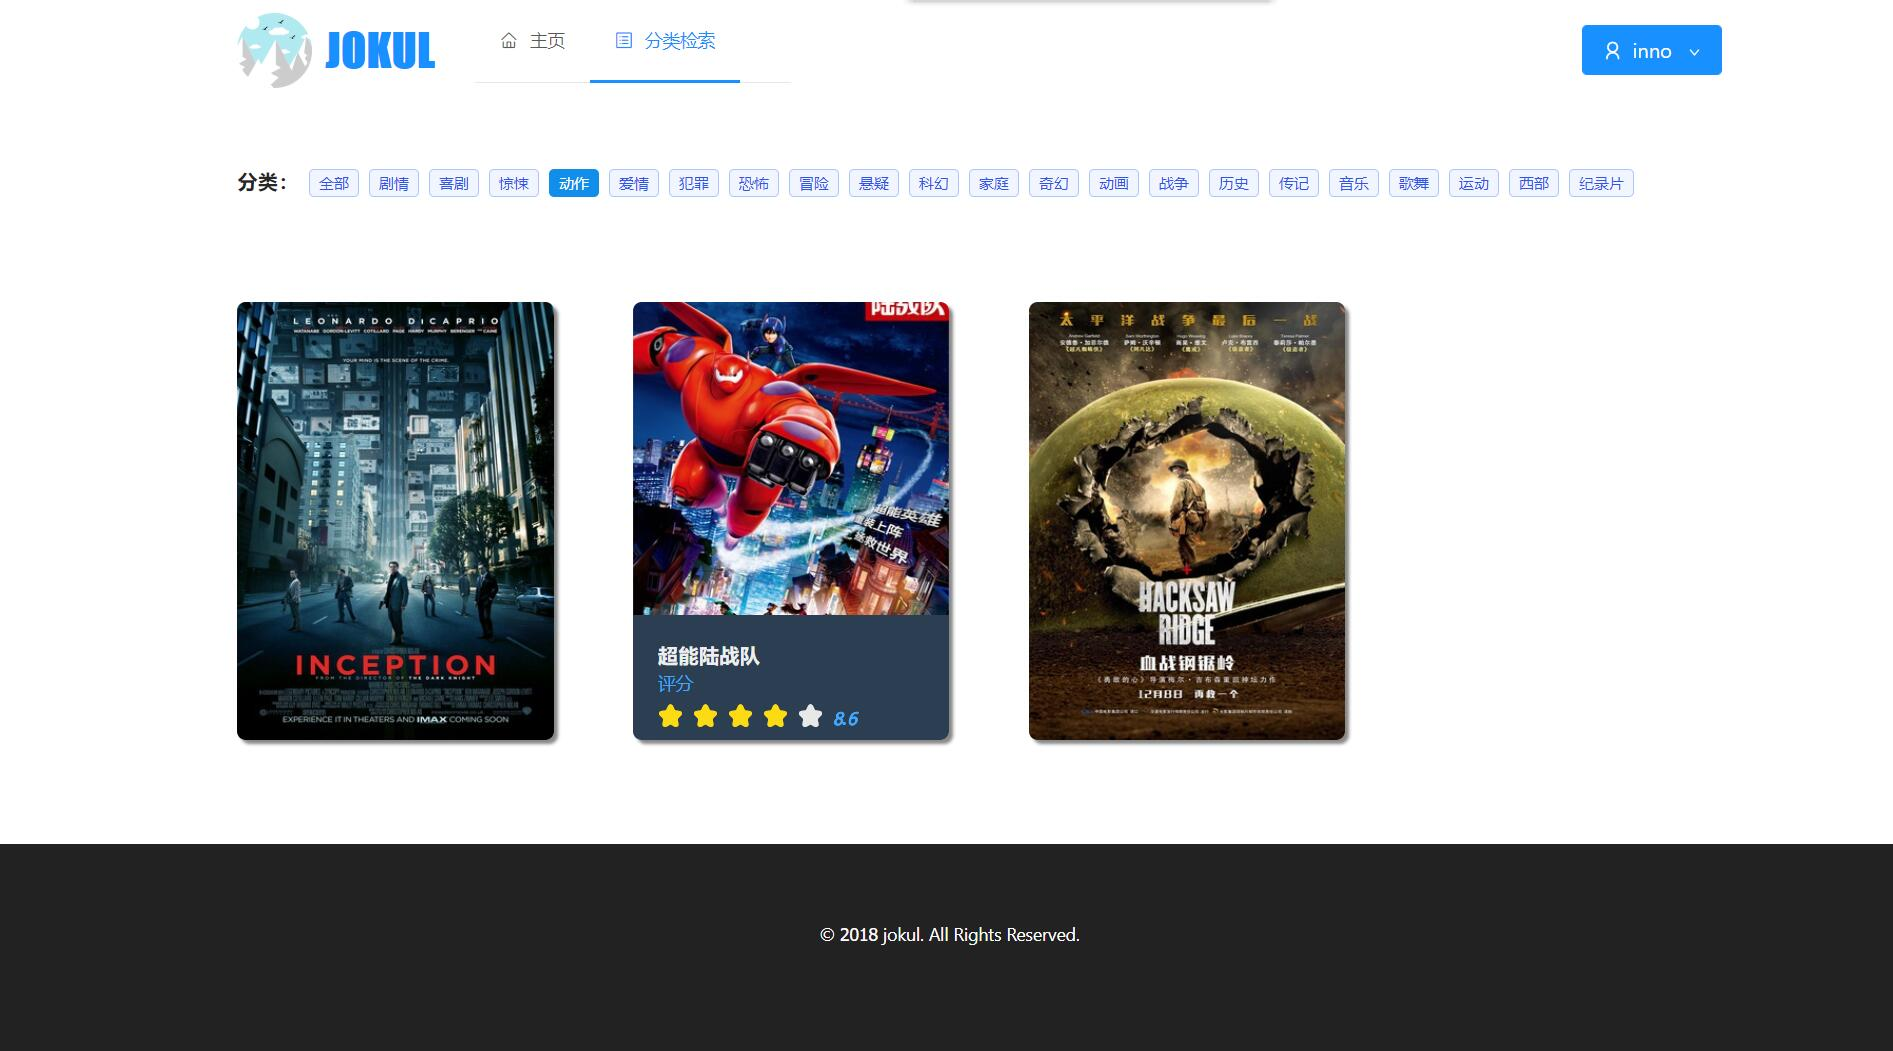
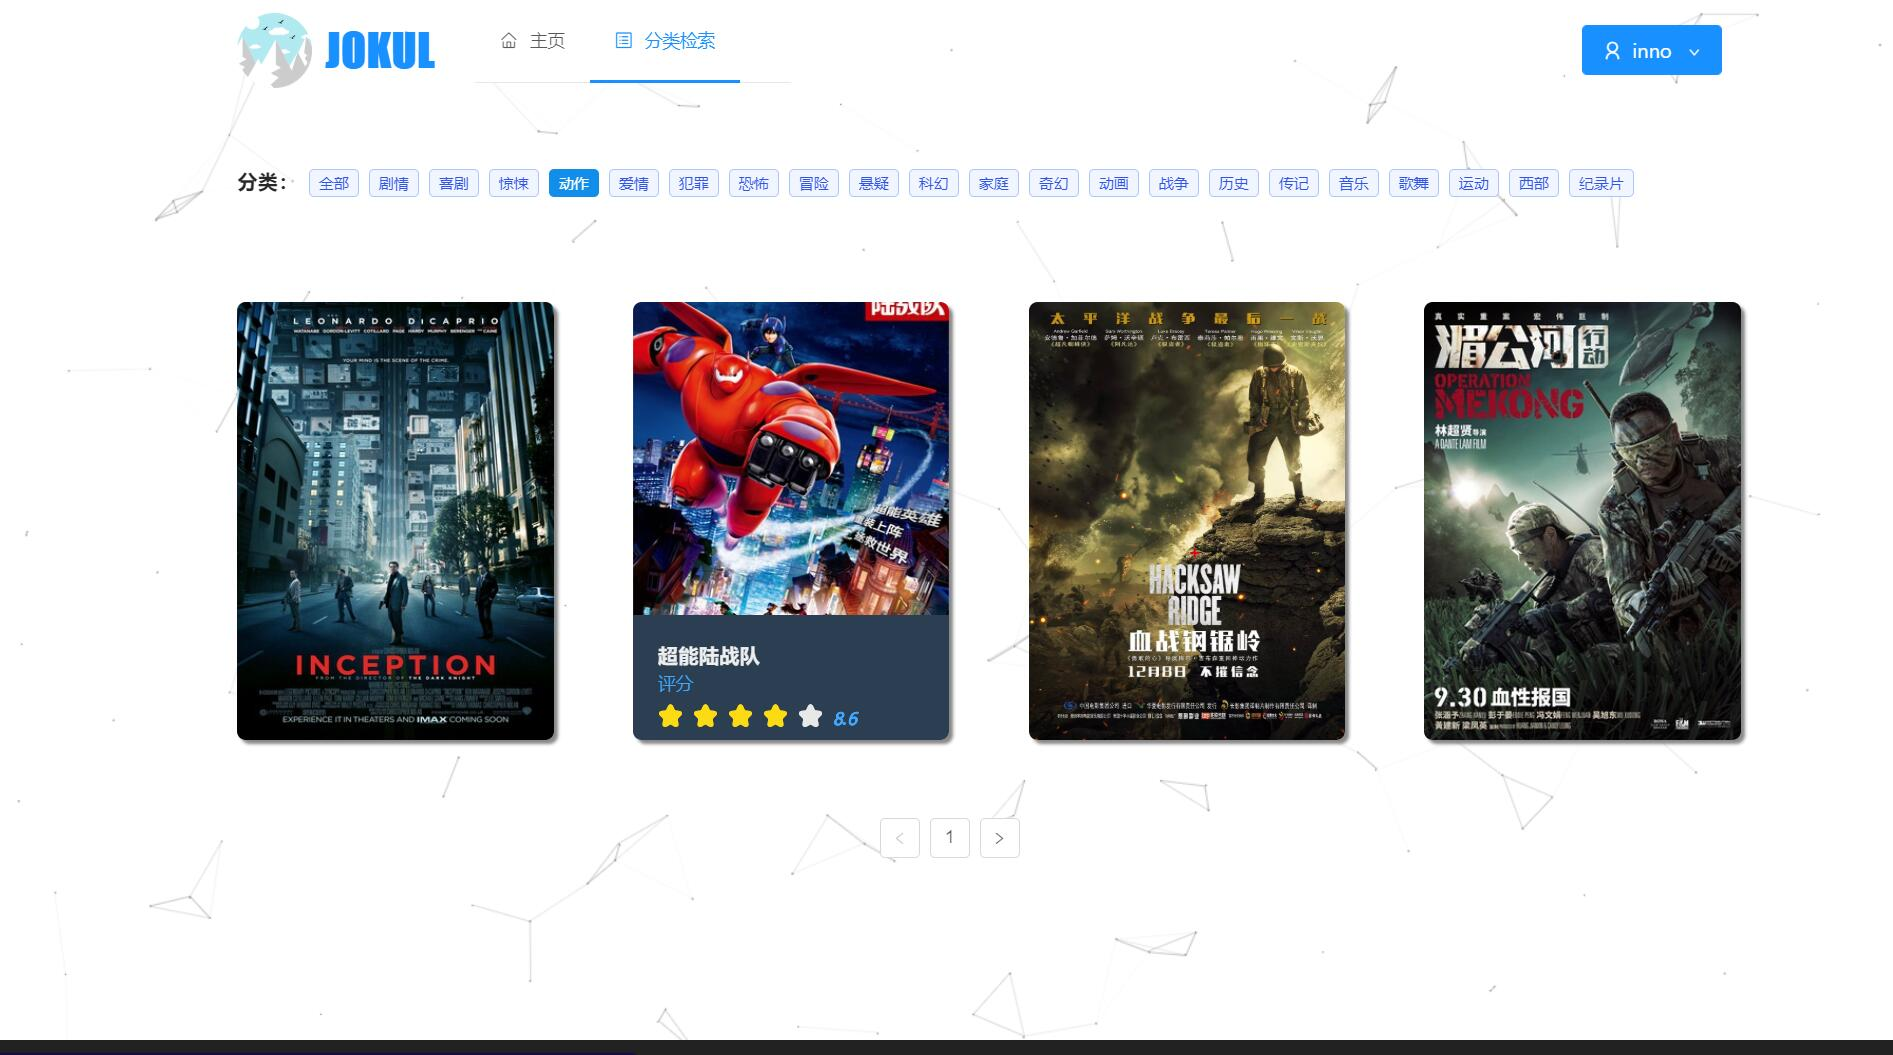
:camera_flash: update screenshot

diff --git a/src/test/java/io/innofang/knockknock/repositories/MovieRepositoryTest.java b/src/test/java/io/innofang/knockknock/repositories/MovieRepositoryTest.java
@@ -266,7 +266,7 @@ public class MovieRepositoryTest {
         hacksawRidge.setCast("安德鲁·加菲尔德  萨姆·沃辛顿  文斯·沃恩  雨果·维文  卢克·布雷西  泰莉莎·帕尔墨  瑞切尔·格里菲斯  纳撒尼尔·布佐尼克  理查德·劳斯伯格  马特·纳夫莱  费拉斯·迪拉尼 瑞安·柯尔  卢克·佩格勒");
         hacksawRidge.setOverview("1945年，第二次世界大战接近尾声，作为邪恶轴心重要成员的日本，其嚣张态势已成强弩之末。是年，决定战局走向的冲绳岛战役拉开序幕，成千上万斗志昂扬的美国大兵被派往冲绳，等待他们的则是敌军重兵防守、凶险异常的钢锯岭。在这群人中间，却有一个不愿拿起武器的军医。他名叫戴斯蒙德·道斯（安德鲁·加菲尔德 Andrew Garfield 饰），来自美国的弗吉尼亚。太平洋爆发之际，瘦弱的戴斯蒙德志愿成为救死扶伤的军医而应征入伍。可因童年和家庭的原因，他始终不愿拿起枪支操练，为此宁愿背上拒服兵役的罪名被送上军事法庭。几经周折，戴斯蒙德最终和战友来到了钢锯岭。枪林弹雨，转瞬之间无数人应声倒地。在信仰和信念的支持下，戴斯蒙德仅凭一己之力拯救了数十条濒死的生命…… \n" +
                 "　　本片根据真人真事改编。");
-        hacksawRidge.setPost("https://img1.doubanio.com/view/movie_poster_cover/lpst/public/p2397337958.jpg");
+        hacksawRidge.setPost("https://img3.doubanio.com/view/photo/l/public/p2408209615.webp");
         Set<Type> hacksawRidgeType = new HashSet<>();
         hacksawRidgeType.add(typeRepository.findByName("剧情"));
         hacksawRidgeType.add(typeRepository.findByName("动作"));
